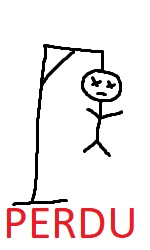
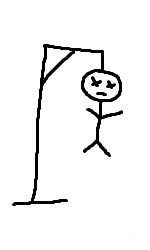
Update Morpion

Changed region(s): [[0.0267, 0.812, 0.5067, 0.952], [0.5333, 0.812, 0.9067, 0.952]]

diff --git a/Pendu/pendu.js b/Pendu/pendu.js
@@ -5,6 +5,7 @@ document.getElementById("reponse").innerHTML = "plus de triche";
 var restant = mot.length;
 var dessin = document.getElementById("pendu");
 var clavier = document.getElementsByClassName("clavier");
+var result = document.getElementById("resultat");
 albhabet.forEach(element => {
     document.getElementById("texte").innerHTML += "<span class='clavier'>"+element+"</span>";
 });
@@ -40,11 +41,13 @@ function clickClavier()
     {
         dessin.innerHTML = "PERDU";
         stopClick();
+        iAmError();
     }
     else if(!restant)
     {
         dessin.innerHTML = "GAGNER";
         stopClick();
+        aWinnerIsYou();
     }
 }
 function stopClick()
@@ -52,4 +55,14 @@ function stopClick()
     [].forEach.call(clavier,function(perdu){
         perdu.removeEventListener("click",clickClavier)
     });
+}
+function aWinnerIsYou()
+{
+    result.innerHTML = "BRAVO"
+    result.classList.toggle("gagnant");
+}
+function iAmError()
+{
+    result.innerHTML = "PERDU"
+    result.classList.toggle("perdant");
 }

diff --git a/Pendu/pendu.css b/Pendu/pendu.css
@@ -71,8 +71,27 @@
 {
     font-size: 3em;
 }
-
 #reponse
 {
     display:none;
+}
+#resultat
+{
+    position:absolute;
+    font-weight: bold;
+    font-size: 2em;
+    transition: 3s;
+}
+#resultat.gagnant
+{
+    color: green;
+}
+#resultat.perdant
+{
+    color: red;
+}
+#resultat.gagnant,#resultat.perdant
+{
+    transform: translate(200px,-100px) rotate(1010deg);
+    font-size: 10em;
 }

diff --git a/Pendu/index.php b/Pendu/index.php
@@ -8,7 +8,7 @@
 </head>
 <body> 
     <?php 
-        $liste=["developpeur","developper","developpement","encyclopedie","chameau","test","bonjour","virgile","llanfairpwllgwyngyllgogerychwyrndrobwllllantysiliogogogoch"];
+        $liste=["developpeur","developper","developpement","encyclopedie","chameau","test","bonjour","virgile","micka","llanfairpwllgwyngyllgogerychwyrndrobwllllantysiliogogogoch"];
         $mot = $liste[array_rand($liste,1)];
     ?>
     <div id="enchiladas">
@@ -16,6 +16,9 @@
         <div id="mainjeu">
             <div id="dessin">
                 <img id="pendu" src="pendu0.jpg">
+            </div>
+            <div id="resultat">
+                
             </div>
             <div id="mot"> 
                 <?php 
@@ -27,6 +30,9 @@
                 
             </div>
             <div id="reponse"><?php echo $mot ?></div>
+            <div>
+            <!--<button onclick="aWinnerIsYou()">INSTANT WIN</button> -->
+            </div>
         </div>
     </div>
     
